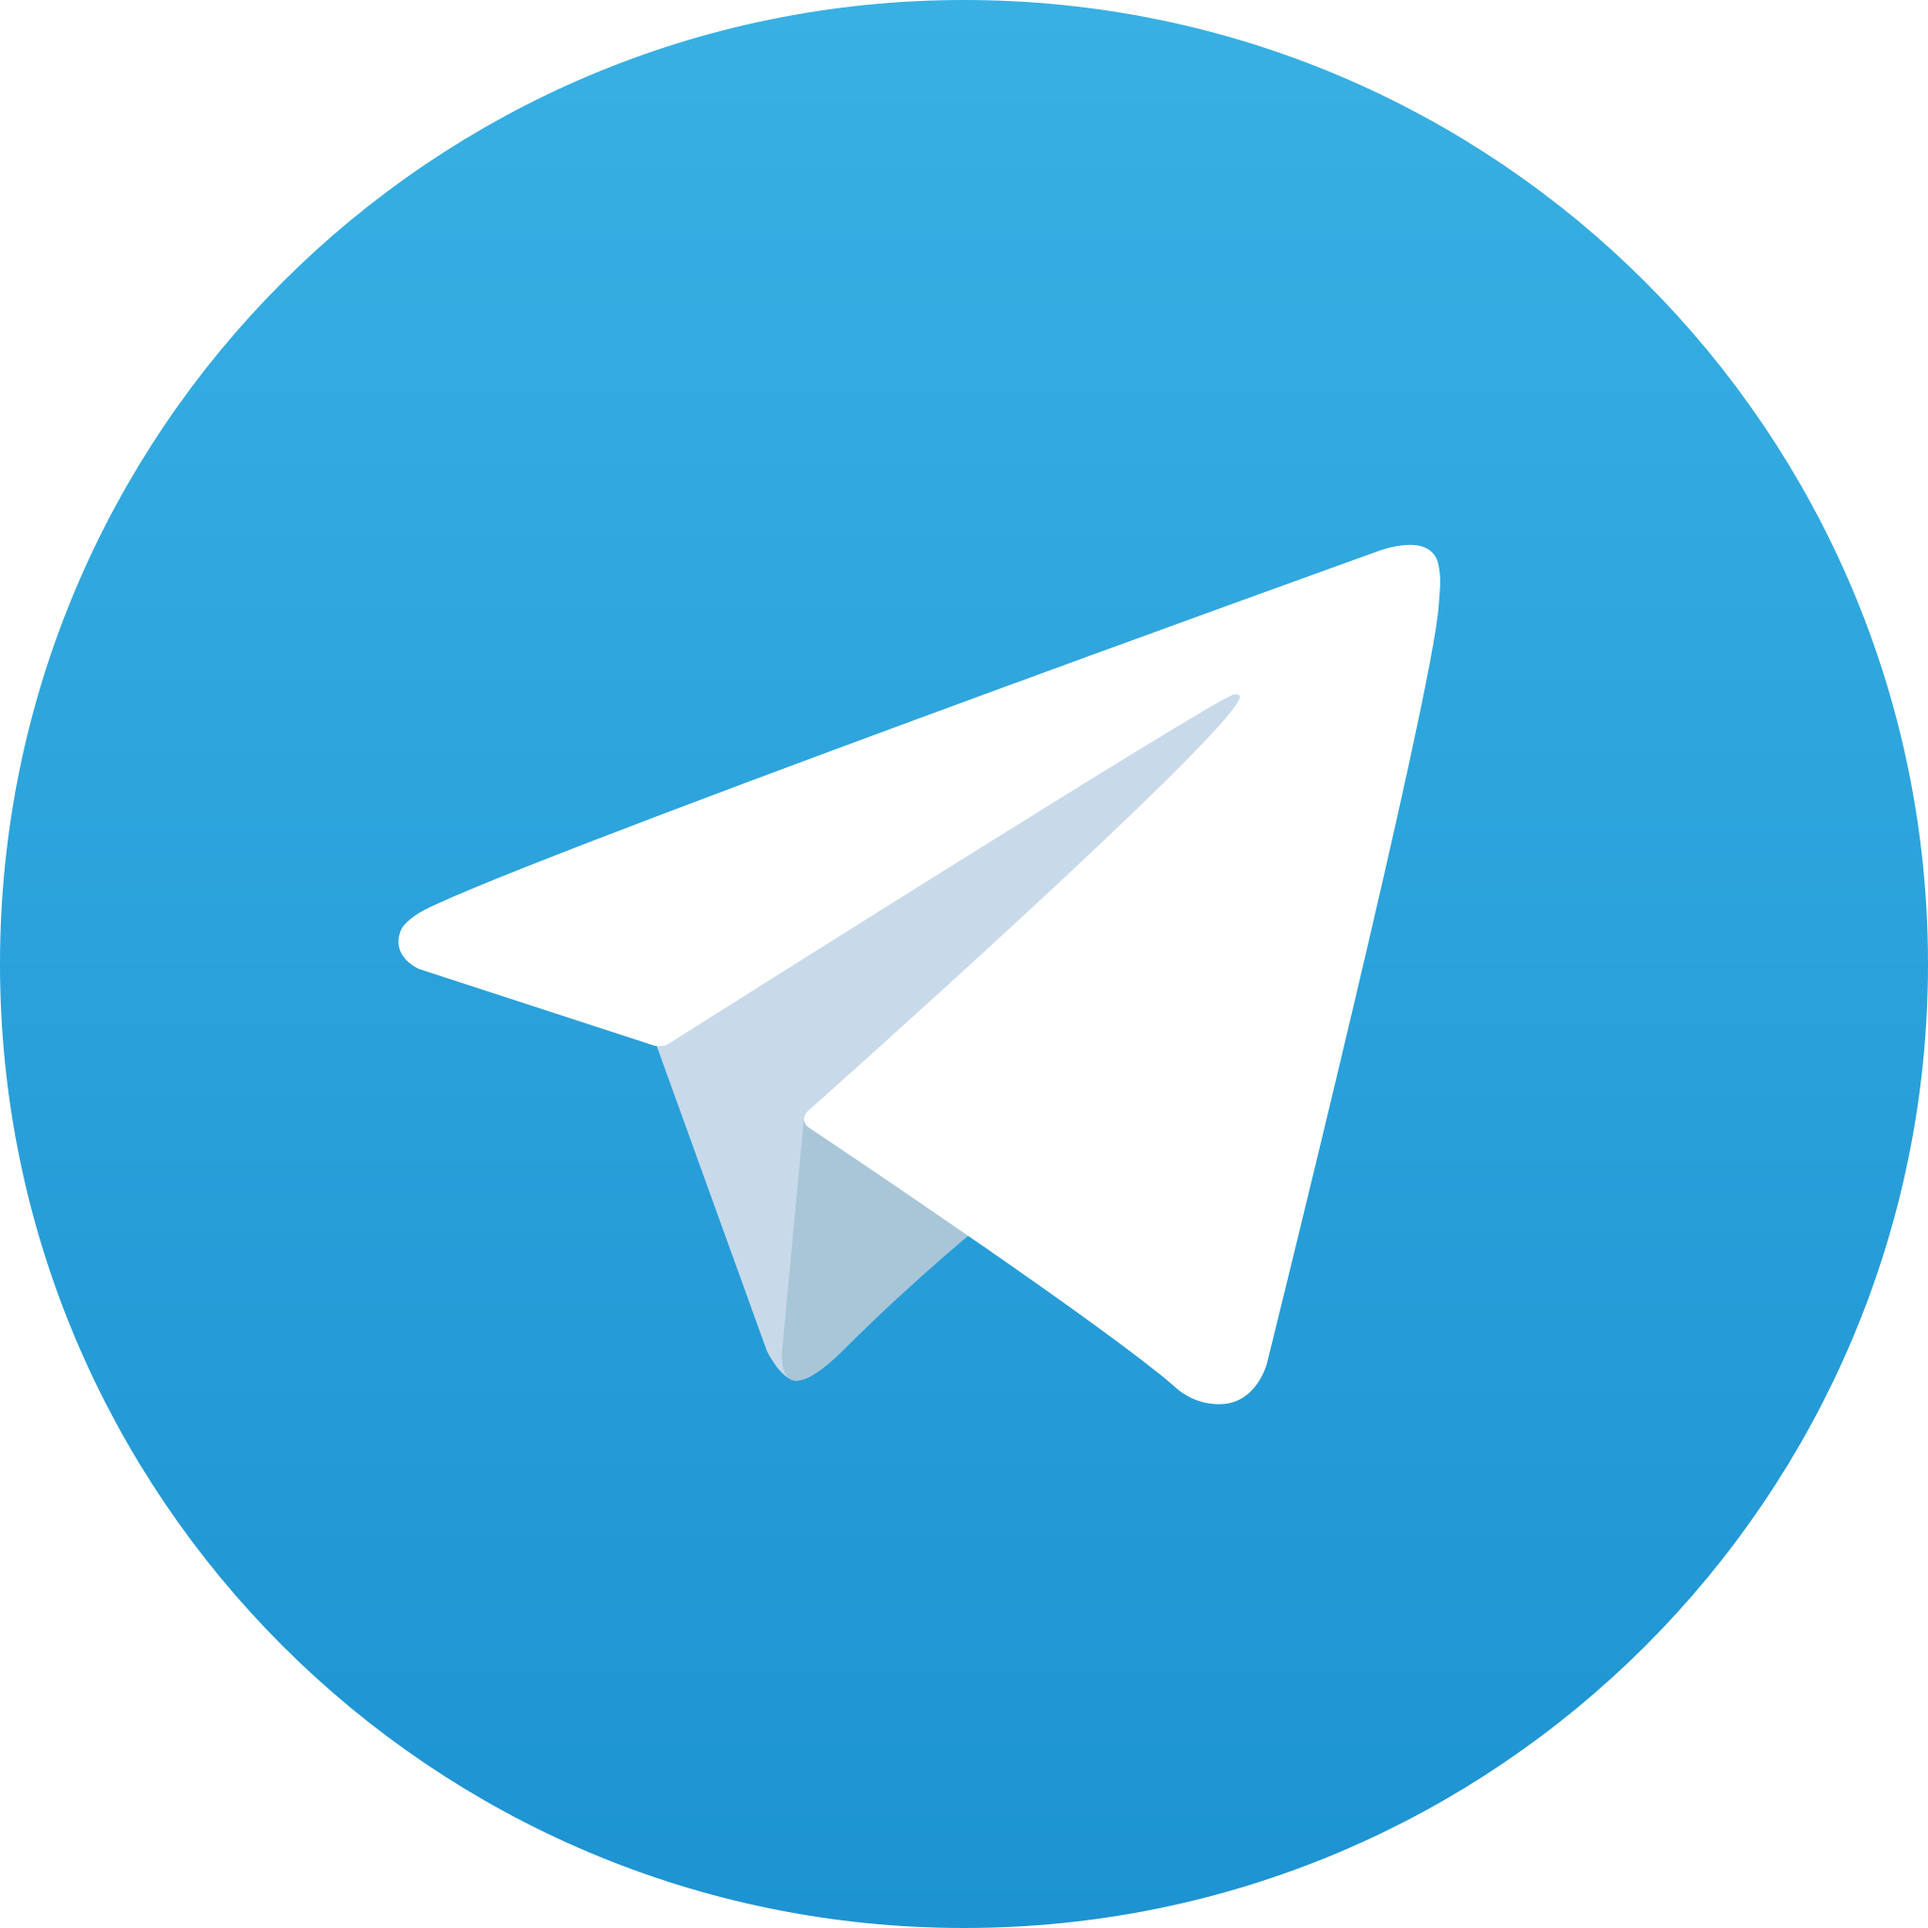
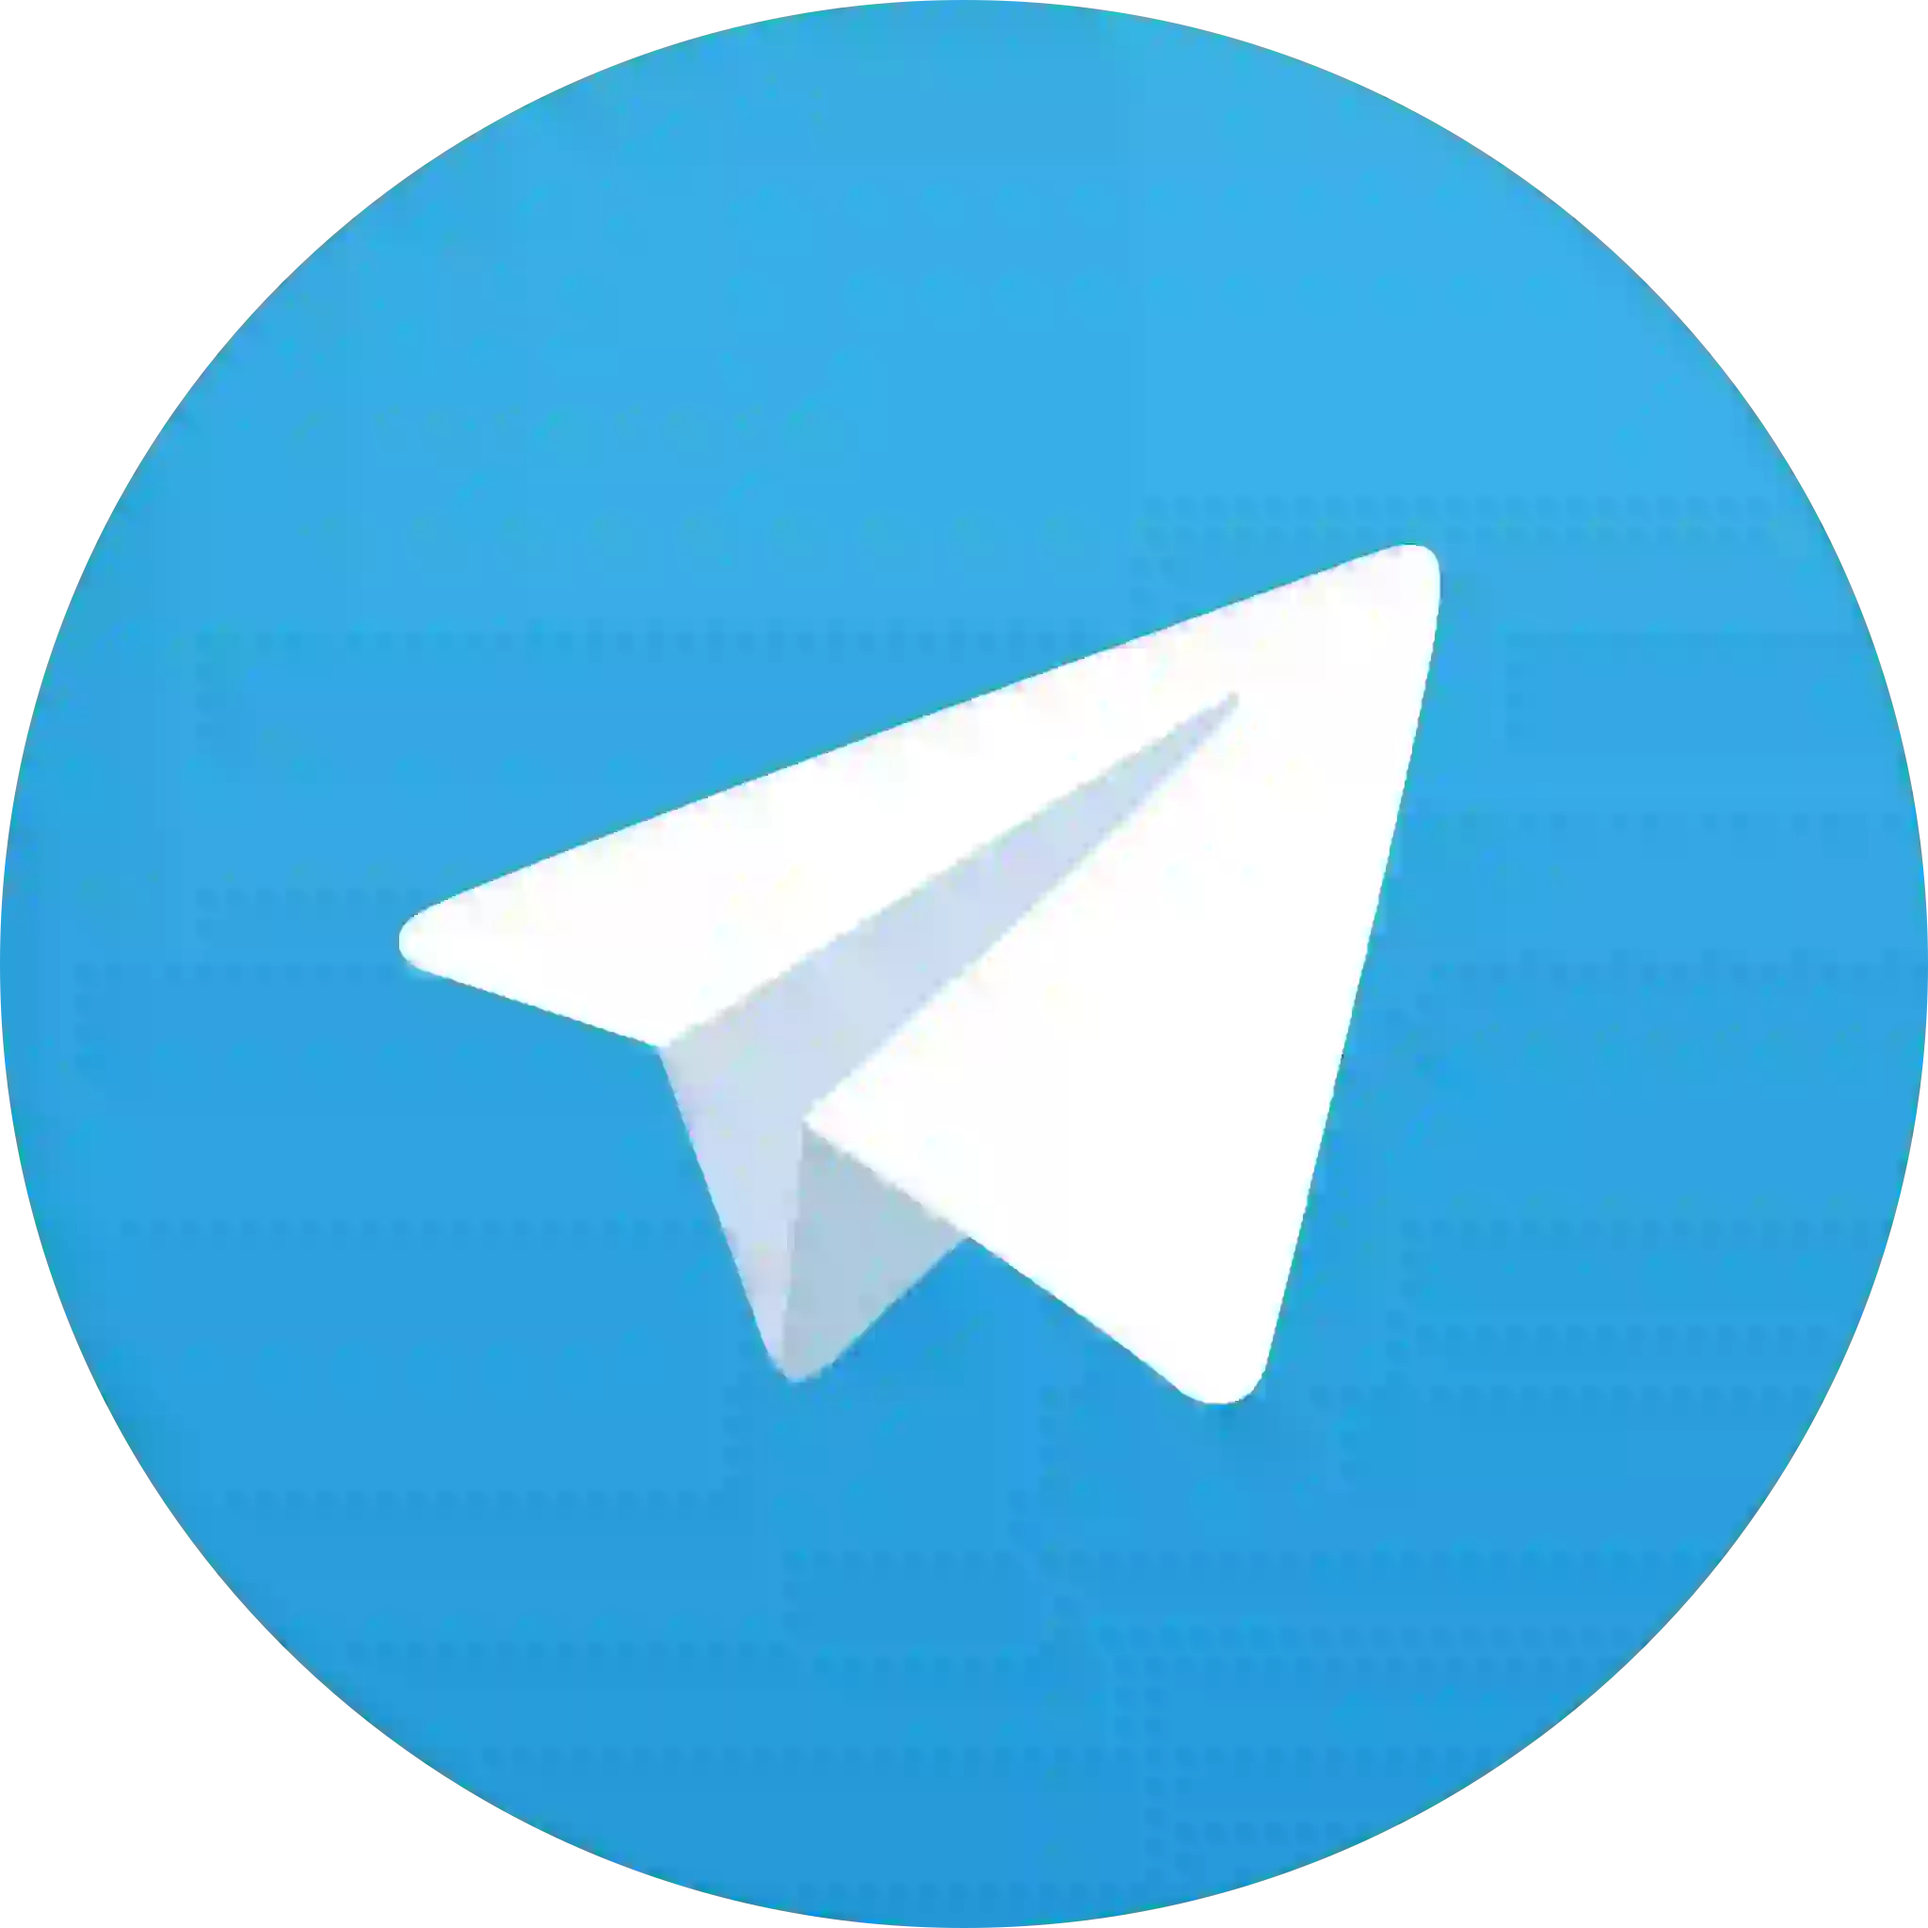
Compactei mais imagens para o site ficar mais rápido

diff --git a/index.html b/index.html
@@ -87,7 +87,7 @@
     <main class="items">
         <div class="item">
             <a href="https://www.google.com/intl/pt-BR/chrome/next-steps.html?installdataindex=empty&statcb=1&defaultbrowser=0#" target="_blank" >
-                <img src="arquivos/imagens/Google_Chrome.png">
+                <img src="arquivos/imagens/Google_Chrome.webp">
             </a>
             <div id="div-posImg">
                 <h2 class="item-title">Google Chrome</h2>
@@ -103,7 +103,7 @@
         </div>
         <div class="item">
             <a href="https://discord.com/api/downloads/distributions/app/installers/latest?channel=stable&platform=win&arch=x86" target="_blank" >
-                <img src="arquivos/imagens/Discord.png">
+                <img src="arquivos/imagens/Discord.webp">
             </a>
             <div id="div-posImg">
                 <h2 class="item-title">Discord</h2>
@@ -119,7 +119,7 @@
         </div>
         <div class="item">
             <a href="https://cdn.akamai.steamstatic.com/client/installer/SteamSetup.exe" target="_blank" >
-                <img src="arquivos/imagens/Steam.png">
+                <img src="arquivos/imagens/Steam.webp">
             </a>
             <div id="div-posImg">
                 <h2 class="item-title">Steam</h2>
@@ -135,7 +135,7 @@
         </div>
         <div class="item">
             <a href="https://www.utorrent.com/intl/pt_br/downloads/complete/track/stable/os/win/" target="_blank" >
-                <img src="arquivos/imagens/UTorrent.png">
+                <img src="arquivos/imagens/UTorrent.webp">
             </a>
             <div id="div-posImg">
                 <h2 class="item-title">Utorrent</h2>
@@ -151,7 +151,7 @@
         </div>
         <div class="item">
             <a href="https://launcher-public-service-prod06.ol.epicgames.com/launcher/api/installer/download/EpicGamesLauncherInstaller.msi" target="_blank" >
-                <img src="arquivos/imagens/EpicGames.jpg">
+                <img src="arquivos/imagens/EpicGames.webp">
             </a>
             <div id="div-posImg">
                 <h2 class="item-title">Epic Games</h2>
@@ -167,7 +167,7 @@
         </div>
         <div class="item">
             <a href="https://www.win-rar.com/fileadmin/winrar-versions/winrar/winrar-x64-624br.exe" target="_blank" >
-                <img src="arquivos/imagens/winrar.png">
+                <img src="arquivos/imagens/winrar.webp">
             </a>
             <div id="div-posImg">
                 <h2 class="item-title">Winrar</h2>
@@ -183,7 +183,7 @@
         </div>
         <div class="item">
             <a href="https://download.msi.com/uti_exe/vga/MSIAfterburnerSetup.zip?__token__=exp=1708908427~acl=/*~hmac=ecc8da0e125b4d4a39cbb04f247f230f8b9231db63b0c5c3e19d2f664e648c0f" target="_blank" >
-                <img src="arquivos/imagens/msi-afterburner.png">
+                <img src="arquivos/imagens/msi-afterburner.webp">
             </a>
             <div id="div-posImg">
                 <h2 class="item-title">Msi Afterburner</h2>
@@ -199,7 +199,7 @@
         </div>
         <div class="item">
             <a href="https://code.visualstudio.com/docs/?dv=win64user" target="_blank" >
-                <img src="arquivos/imagens/VSCode.png">
+                <img src="arquivos/imagens/VSCode.webp">
             </a>
             <div id="div-posImg">
                 <h2 class="item-title">VSCode</h2>
@@ -215,7 +215,7 @@
         </div>
         <div class="item">
             <a href="https://drivers.amd.com/drivers/installer/23.40/whql/amd-software-adrenalin-edition-24.1.1-combined-minimalsetup-240122_web.exe" target="_blank" >
-                <img src="arquivos/imagens/amd.png">
+                <img src="arquivos/imagens/amd.webp">
             </a>
             <div id="div-posImg">
                 <h2 class="item-title">AMD</h2>
@@ -231,7 +231,7 @@
         </div>
         <div class="item">
             <a href="https://www.nvidia.com.br/Download/index.aspx?lang=br" target="_blank" >
-                <img src="arquivos/imagens/nvidia.png">
+                <img src="arquivos/imagens/nvidia.webp">
             </a>
             <div id="div-posImg">
                 <h2 class="item-title">Nvidia</h2>
@@ -263,7 +263,7 @@
         </div>
         <div class="item">
             <a href="https://www.computerbase.de/downloads/systemtools/all-in-one-runtimes/" target="_blank" >
-                <img src="arquivos/imagens/all-runtimes.png">
+                <img src="arquivos/imagens/all-runtimes.webp">
             </a>
             <div id="div-posImg">
                 <h2 class="item-title">All Runtimes</h2>
@@ -279,7 +279,7 @@
         </div>
         <div class="item">
             <a href="https://download.cpuid.com/cpu-z/cpu-z_2.09-en.exe" target="_blank" >
-                <img src="arquivos/imagens/cpuz.png">
+                <img src="arquivos/imagens/cpuz.webp">
             </a>
             <div id="div-posImg">
                 <h2 class="item-title">CPU-Z</h2>
@@ -295,7 +295,7 @@
         </div>
         <div class="item">
             <a href="https://central.github.com/deployments/desktop/desktop/latest/win32" target="_blank" >
-                <img src="arquivos/imagens/Github-desktop.png">
+                <img src="arquivos/imagens/Github-desktop.webp">
             </a>
             <div id="div-posImg">
                 <h2 class="item-title">Github Desktop</h2>
@@ -311,7 +311,7 @@
         </div>
         <div class="item">
             <a href="https://www.opera.com/pt-br/computer/thanks?ni=eapgx&os=windows" target="_blank" >
-                <img src="arquivos/imagens/Opera-GX.png">
+                <img src="arquivos/imagens/Opera-GX.webp">
             </a>
             <div id="div-posImg">
                 <h2 class="item-title">Opera GX</h2>
@@ -327,7 +327,7 @@
         </div>
         <div class="item">
             <a href="https://www.sades.gg/Uploads/Driver/MICE/SADES_Battle%20Ram_Setup_v1.0.2020.rar" target="_blank" >
-                <img src="arquivos/imagens/sades.jpeg">
+                <img src="arquivos/imagens/sades.webp">
             </a>
             <div id="div-posImg">
                 <h2 class="item-title">Sades</h2>
@@ -359,7 +359,7 @@
         </div>
         <div class="item">
             <a href="https://get.videolan.org/vlc/3.0.20/win32/vlc-3.0.20-win32.exe" target="_blank" >
-                <img src="arquivos/imagens/vlc.png">
+                <img src="arquivos/imagens/vlc.webp">
             </a>
             <div id="div-posImg">
                 <h2 class="item-title">VLC Player</h2>
@@ -375,7 +375,7 @@
         </div>
         <div class="item">
             <a href="https://pt.ldplayer.net/" target="_blank" >
-                <img src="arquivos/imagens/ldplayer.png">
+                <img src="arquivos/imagens/ldplayer.webp">
             </a>
             <div id="div-posImg">
                 <h2 class="item-title">LdPlayer</h2>
@@ -391,7 +391,7 @@
         </div>
         <div class="item">
             <a href="https://signalrgb.com/" target="_blank" >
-                <img src="arquivos/imagens/signalrgb.png">
+                <img src="arquivos/imagens/signalrgb.webp">
             </a>
             <div id="div-posImg">
                 <h2 class="item-title">Signal RGB</h2>
@@ -407,7 +407,7 @@
         </div>
         <div class="item">
             <a href="https://www.rainmeter.net/" target="_blank" >
-                <img src="arquivos/imagens/rainmeter.png">
+                <img src="arquivos/imagens/rainmeter.webp">
             </a>
             <div id="div-posImg">
                 <h2 class="item-title">Rainmeter</h2>
@@ -423,7 +423,7 @@
         </div>
         <div class="item">
             <a href="https://github.com/builtbybel/Winpilot/releases/download/2024.5.20/Winpilot.zip" target="_blank" >
-                <img src="arquivos/imagens/winpilot.png">
+                <img src="arquivos/imagens/winpilot.webp">
             </a>
             <div id="div-posImg">
                 <h2 class="item-title">Winpilot</h2>
@@ -439,7 +439,7 @@
         </div>
         <div class="item">
             <a href="https://www.gimp.org/downloads/" target="_blank" >
-                <img src="arquivos/imagens/gimp.png">
+                <img src="arquivos/imagens/gimp.webp">
             </a>
                 <div id="div-posImg">
                     <h2 class="item-title">Gimp</h2>
@@ -455,7 +455,7 @@
         </div>
         <div class="item">
             <a href="https://www.gog.com/galaxy" target="_blank" >
-                <img src="arquivos/imagens/goggalaxy.png">
+                <img src="arquivos/imagens/goggalaxy.webp">
             </a>
             <div id="div-posImg">
                 <h2 class="item-title">Gog Galaxy</h2>
